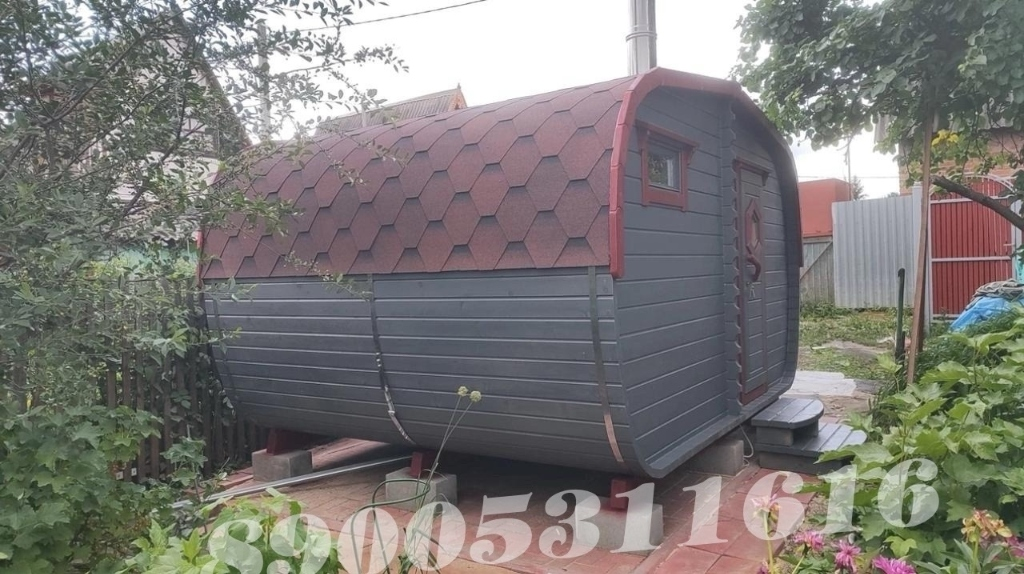
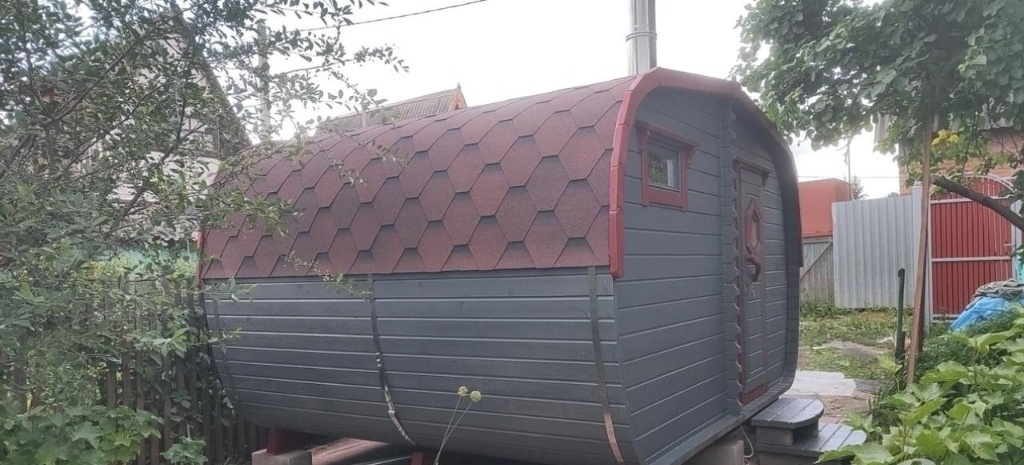
Update CTA buttons to direct VK messages, remove phone watermarks from photos, update banya bochka price to 239000, and bump cache busters to v3.4

diff --git a/index.html b/index.html
@@ -19,7 +19,7 @@
   <link href="https://fonts.googleapis.com/css2?family=Inter:wght@300;400;500;600;700;800&family=Outfit:wght@500;600;700;800&display=swap" rel="stylesheet">
 
   <!-- Stylesheet & Favicon -->
-  <link rel="stylesheet" href="css/style.css?v=3.3">
+  <link rel="stylesheet" href="css/style.css?v=3.4">
   <link rel="icon" type="image/png" href="img/logo.png">
 </head>
 <body>
@@ -84,7 +84,7 @@
           </svg>
         </a>
 
-        <a href="https://vk.ru/zabor_okno" target="_blank" rel="noopener noreferrer" class="btn btn--primary btn--sm open-lead-modal">Вызвать замерщика</a>
+        <a href="https://vk.me/zabor_okno" target="_blank" rel="noopener noreferrer" class="btn btn--primary btn--sm open-lead-modal">Вызвать замерщика</a>
         <button class="burger" id="burgerBtn" aria-label="Открыть меню">
           <span></span><span></span><span></span>
         </button>
@@ -115,7 +115,7 @@
 
       <!-- Quick Action / Call to Measurement -->
       <div class="mobile-drawer__cta">
-        <a href="https://vk.ru/zabor_okno" target="_blank" rel="noopener noreferrer" class="btn btn--primary btn--block open-lead-modal" data-service="Бесплатный выезд замерщика">
+        <a href="https://vk.me/zabor_okno" target="_blank" rel="noopener noreferrer" class="btn btn--primary btn--block open-lead-modal" data-service="Бесплатный выезд замерщика">
           <svg viewBox="0 0 24 24" width="18" height="18" fill="none" stroke="currentColor" stroke-width="2">
             <path d="M21 16V8a2 2 0 0 0-1-1.73l-7-4a2 2 0 0 0-2 0l-7 4A2 2 0 0 0 3 8v8a2 2 0 0 0 1 1.73l7 4a2 2 0 0 0 2 0l7-4A2 2 0 0 0 21 16z"></path>
           </svg>
@@ -261,7 +261,7 @@
             </p>
 
             <div class="hero-banner-full__actions">
-              <a href="https://vk.ru/zabor_okno" target="_blank" rel="noopener noreferrer" class="btn btn--primary btn--pill open-lead-modal">
+              <a href="https://vk.me/zabor_okno" target="_blank" rel="noopener noreferrer" class="btn btn--primary btn--pill open-lead-modal">
                 <span>Вызвать замерщика</span>
                 <svg viewBox="0 0 24 24" width="18" height="18" fill="none" stroke="currentColor" stroke-width="2">
                   <line x1="5" y1="12" x2="19" y2="12"></line>
@@ -284,7 +284,7 @@
           <div class="hero-dock-bar">
             
             <a href="#services" class="hero-dock-item">
-              <img src="img/roof_product_2.jpg" alt="Установка Крыш" class="hero-dock-item__avatar">
+              <img src="img/roof_product_2.jpg?v=3.4" alt="Установка Крыш" class="hero-dock-item__avatar">
               <div class="hero-dock-item__text">
                 <span class="hero-dock-item__title">Установка Крыш</span>
                 <span class="hero-dock-item__desc">Любой материал в наличии</span>
@@ -300,7 +300,7 @@
             </a>
 
             <a href="#services" class="hero-dock-item">
-              <img src="img/siding_product_1.jpg" alt="Сайдинг и фасады" class="hero-dock-item__avatar">
+              <img src="img/siding_product_1.jpg?v=3.4" alt="Сайдинг и фасады" class="hero-dock-item__avatar">
               <div class="hero-dock-item__text">
                 <span class="hero-dock-item__title">Устанавливаем сайдинг</span>
                 <span class="hero-dock-item__desc">Любой сложности с завода</span>
@@ -308,7 +308,7 @@
             </a>
 
             <a href="#services" class="hero-dock-item">
-              <img src="img/window_product_real.jpg" alt="Окна ПВХ и доставка" class="hero-dock-item__avatar">
+              <img src="img/window_product_real.jpg?v=3.4" alt="Окна ПВХ и доставка" class="hero-dock-item__avatar">
               <div class="hero-dock-item__text">
                 <span class="hero-dock-item__title">Окна ПВХ и доставка</span>
                 <span class="hero-dock-item__desc">Доставка материала • Рассрочка 0%</span>
@@ -550,7 +550,7 @@
           <!-- Service 1: Крыши / Кровля (Главный товар/услуга) -->
           <div class="service-card service-card--featured open-service-detail" data-service-id="roof" data-animate="fade-up">
             <div class="service-card__image-box">
-              <img src="img/roof_product_2.jpg" alt="Установка Крыш под ключ — vk.ru/zabor_okno" class="service-card__img">
+              <img src="img/roof_product_2.jpg?v=3.4" alt="Установка Крыш под ключ — vk.ru/zabor_okno" class="service-card__img">
               <span class="service-card__tag">Хит сезона</span>
               <span class="service-card__badge-click">
                 <svg viewBox="0 0 24 24" width="14" height="14" fill="none" stroke="currentColor" stroke-width="2"><circle cx="11" cy="11" r="8"></circle><line x1="21" y1="21" x2="16.65" y2="16.65"></line><line x1="11" y1="8" x2="11" y2="14"></line><line x1="8" y1="11" x2="14" y2="11"></line></svg>
@@ -572,7 +572,7 @@
                 </div>
                 <div class="service-card__actions">
                   <button type="button" class="btn btn--sm btn-open-detail" data-service-id="roof">Подробнее</button>
-                  <a href="https://vk.ru/zabor_okno" target="_blank" rel="noopener noreferrer" class="btn btn--sm btn--vk-icon" title="Спросить в VK" onclick="event.stopPropagation();">
+                  <a href="https://vk.me/zabor_okno" target="_blank" rel="noopener noreferrer" class="btn btn--sm btn--vk-icon" title="Спросить в VK" onclick="event.stopPropagation();">
                     <svg viewBox="0 0 24 24" width="16" height="16" fill="currentColor"><path d="M15.684 0H8.316C2.992 0 0 2.992 0 8.316v7.368C0 21.008 2.992 24 8.316 24h7.368C21.008 24 24 21.008 24 15.684V8.316C24 2.992 21.008 0 15.684 0zm3.692 17.124h-1.744c-.66 0-.864-.525-2.053-1.716-1.037-1.008-1.497-1.139-1.751-1.139-.356 0-.458.102-.458.593v1.652c0 .424-.136.686-1.254.686-1.847 0-3.898-1.118-5.34-3.2-2.17-3.085-2.763-5.407-2.763-5.882 0-.254.102-.491.593-.491h1.746c.441 0 .61.203.78.678.847 2.475 2.271 4.644 2.864 4.644.22 0 .322-.102.322-.661V10.8c-.068-1.203-.712-1.305-.712-1.729 0-.203.17-.407.441-.407h2.746c.373 0 .508.203.508.644v3.475c0 .373.17.508.271.508.22 0 .407-.136.814-.542 1.271-1.424 2.186-3.627 2.186-3.627.119-.254.339-.458.78-.458h1.746c.525 0 .644.271.525.644-.22.983-2.271 3.898-2.373 4.051-.203.322-.288.475 0 .864.203.288.881.864 1.339 1.39 1.051 1.153 1.864 2.119 2.085 2.78.22.644-.119.983-.712.983z"/></svg>
                   </a>
                 </div>
@@ -606,7 +606,7 @@
                 </div>
                 <div class="service-card__actions">
                   <button type="button" class="btn btn--sm btn-open-detail" data-service-id="complex">Подробнее</button>
-                  <a href="https://vk.ru/zabor_okno" target="_blank" rel="noopener noreferrer" class="btn btn--sm btn--vk-icon" title="Спросить в VK" onclick="event.stopPropagation();">
+                  <a href="https://vk.me/zabor_okno" target="_blank" rel="noopener noreferrer" class="btn btn--sm btn--vk-icon" title="Спросить в VK" onclick="event.stopPropagation();">
                     <svg viewBox="0 0 24 24" width="16" height="16" fill="currentColor"><path d="M15.684 0H8.316C2.992 0 0 2.992 0 8.316v7.368C0 21.008 2.992 24 8.316 24h7.368C21.008 24 24 21.008 24 15.684V8.316C24 2.992 21.008 0 15.684 0zm3.692 17.124h-1.744c-.66 0-.864-.525-2.053-1.716-1.037-1.008-1.497-1.139-1.751-1.139-.356 0-.458.102-.458.593v1.652c0 .424-.136.686-1.254.686-1.847 0-3.898-1.118-5.34-3.2-2.17-3.085-2.763-5.407-2.763-5.882 0-.254.102-.491.593-.491h1.746c.441 0 .61.203.78.678.847 2.475 2.271 4.644 2.864 4.644.22 0 .322-.102.322-.661V10.8c-.068-1.203-.712-1.305-.712-1.729 0-.203.17-.407.441-.407h2.746c.373 0 .508.203.508.644v3.475c0 .373.17.508.271.508.22 0 .407-.136.814-.542 1.271-1.424 2.186-3.627 2.186-3.627.119-.254.339-.458.78-.458h1.746c.525 0 .644.271.525.644-.22.983-2.271 3.898-2.373 4.051-.203.322-.288.475 0 .864.203.288.881.864 1.339 1.39 1.051 1.153 1.864 2.119 2.085 2.78.22.644-.119.983-.712.983z"/></svg>
                   </a>
                 </div>
@@ -639,7 +639,7 @@
                 </div>
                 <div class="service-card__actions">
                   <button type="button" class="btn btn--sm btn-open-detail" data-service-id="fence">Подробнее</button>
-                  <a href="https://vk.ru/zabor_okno" target="_blank" rel="noopener noreferrer" class="btn btn--sm btn--vk-icon" title="Спросить в VK" onclick="event.stopPropagation();">
+                  <a href="https://vk.me/zabor_okno" target="_blank" rel="noopener noreferrer" class="btn btn--sm btn--vk-icon" title="Спросить в VK" onclick="event.stopPropagation();">
                     <svg viewBox="0 0 24 24" width="16" height="16" fill="currentColor"><path d="M15.684 0H8.316C2.992 0 0 2.992 0 8.316v7.368C0 21.008 2.992 24 8.316 24h7.368C21.008 24 24 21.008 24 15.684V8.316C24 2.992 21.008 0 15.684 0zm3.692 17.124h-1.744c-.66 0-.864-.525-2.053-1.716-1.037-1.008-1.497-1.139-1.751-1.139-.356 0-.458.102-.458.593v1.652c0 .424-.136.686-1.254.686-1.847 0-3.898-1.118-5.34-3.2-2.17-3.085-2.763-5.407-2.763-5.882 0-.254.102-.491.593-.491h1.746c.441 0 .61.203.78.678.847 2.475 2.271 4.644 2.864 4.644.22 0 .322-.102.322-.661V10.8c-.068-1.203-.712-1.305-.712-1.729 0-.203.17-.407.441-.407h2.746c.373 0 .508.203.508.644v3.475c0 .373.17.508.271.508.22 0 .407-.136.814-.542 1.271-1.424 2.186-3.627 2.186-3.627.119-.254.339-.458.78-.458h1.746c.525 0 .644.271.525.644-.22.983-2.271 3.898-2.373 4.051-.203.322-.288.475 0 .864.203.288.881.864 1.339 1.39 1.051 1.153 1.864 2.119 2.085 2.78.22.644-.119.983-.712.983z"/></svg>
                   </a>
                 </div>
@@ -650,7 +650,7 @@
           <!-- Service 4: Сайдинги -->
           <div class="service-card open-service-detail" data-service-id="siding" data-animate="fade-up" data-delay="200">
             <div class="service-card__image-box">
-              <img src="img/siding_product_1.jpg" alt="Установка сайдинга любой сложности — vk.ru/zabor_okno" class="service-card__img">
+              <img src="img/siding_product_1.jpg?v=3.4" alt="Установка сайдинга любой сложности — vk.ru/zabor_okno" class="service-card__img">
               <span class="service-card__tag">Любая сложность</span>
               <span class="service-card__badge-click">
                 <svg viewBox="0 0 24 24" width="14" height="14" fill="none" stroke="currentColor" stroke-width="2"><circle cx="11" cy="11" r="8"></circle><line x1="21" y1="21" x2="16.65" y2="16.65"></line><line x1="11" y1="8" x2="11" y2="14"></line><line x1="8" y1="11" x2="14" y2="11"></line></svg>
@@ -672,7 +672,7 @@
                 </div>
                 <div class="service-card__actions">
                   <button type="button" class="btn btn--sm btn-open-detail" data-service-id="siding">Подробнее</button>
-                  <a href="https://vk.ru/zabor_okno" target="_blank" rel="noopener noreferrer" class="btn btn--sm btn--vk-icon" title="Спросить в VK" onclick="event.stopPropagation();">
+                  <a href="https://vk.me/zabor_okno" target="_blank" rel="noopener noreferrer" class="btn btn--sm btn--vk-icon" title="Спросить в VK" onclick="event.stopPropagation();">
                     <svg viewBox="0 0 24 24" width="16" height="16" fill="currentColor"><path d="M15.684 0H8.316C2.992 0 0 2.992 0 8.316v7.368C0 21.008 2.992 24 8.316 24h7.368C21.008 24 24 21.008 24 15.684V8.316C24 2.992 21.008 0 15.684 0zm3.692 17.124h-1.744c-.66 0-.864-.525-2.053-1.716-1.037-1.008-1.497-1.139-1.751-1.139-.356 0-.458.102-.458.593v1.652c0 .424-.136.686-1.254.686-1.847 0-3.898-1.118-5.34-3.2-2.17-3.085-2.763-5.407-2.763-5.882 0-.254.102-.491.593-.491h1.746c.441 0 .61.203.78.678.847 2.475 2.271 4.644 2.864 4.644.22 0 .322-.102.322-.661V10.8c-.068-1.203-.712-1.305-.712-1.729 0-.203.17-.407.441-.407h2.746c.373 0 .508.203.508.644v3.475c0 .373.17.508.271.508.22 0 .407-.136.814-.542 1.271-1.424 2.186-3.627 2.186-3.627.119-.254.339-.458.78-.458h1.746c.525 0 .644.271.525.644-.22.983-2.271 3.898-2.373 4.051-.203.322-.288.475 0 .864.203.288.881.864 1.339 1.39 1.051 1.153 1.864 2.119 2.085 2.78.22.644-.119.983-.712.983z"/></svg>
                   </a>
                 </div>
@@ -683,7 +683,7 @@
           <!-- Service 5: Окна ПВХ и Остекление -->
           <div class="service-card open-service-detail" data-service-id="window" data-animate="fade-up" data-delay="250">
             <div class="service-card__image-box">
-              <img src="img/window_product_real.jpg" alt="Пластиковые окна и остекление под ключ — vk.ru/zabor_okno" class="service-card__img">
+              <img src="img/window_product_real.jpg?v=3.4" alt="Пластиковые окна и остекление под ключ — vk.ru/zabor_okno" class="service-card__img">
               <span class="service-card__tag">Тепло и тишина</span>
               <span class="service-card__badge-click">
                 <svg viewBox="0 0 24 24" width="14" height="14" fill="none" stroke="currentColor" stroke-width="2"><circle cx="11" cy="11" r="8"></circle><line x1="21" y1="21" x2="16.65" y2="16.65"></line><line x1="11" y1="8" x2="11" y2="14"></line><line x1="8" y1="11" x2="14" y2="11"></line></svg>
@@ -705,7 +705,7 @@
                 </div>
                 <div class="service-card__actions">
                   <button type="button" class="btn btn--sm btn-open-detail" data-service-id="window">Подробнее</button>
-                  <a href="https://vk.ru/zabor_okno" target="_blank" rel="noopener noreferrer" class="btn btn--sm btn--vk-icon" title="Спросить в VK" onclick="event.stopPropagation();">
+                  <a href="https://vk.me/zabor_okno" target="_blank" rel="noopener noreferrer" class="btn btn--sm btn--vk-icon" title="Спросить в VK" onclick="event.stopPropagation();">
                     <svg viewBox="0 0 24 24" width="16" height="16" fill="currentColor"><path d="M15.684 0H8.316C2.992 0 0 2.992 0 8.316v7.368C0 21.008 2.992 24 8.316 24h7.368C21.008 24 24 21.008 24 15.684V8.316C24 2.992 21.008 0 15.684 0zm3.692 17.124h-1.744c-.66 0-.864-.525-2.053-1.716-1.037-1.008-1.497-1.139-1.751-1.139-.356 0-.458.102-.458.593v1.652c0 .424-.136.686-1.254.686-1.847 0-3.898-1.118-5.34-3.2-2.17-3.085-2.763-5.407-2.763-5.882 0-.254.102-.491.593-.491h1.746c.441 0 .61.203.78.678.847 2.475 2.271 4.644 2.864 4.644.22 0 .322-.102.322-.661V10.8c-.068-1.203-.712-1.305-.712-1.729 0-.203.17-.407.441-.407h2.746c.373 0 .508.203.508.644v3.475c0 .373.17.508.271.508.22 0 .407-.136.814-.542 1.271-1.424 2.186-3.627 2.186-3.627.119-.254.339-.458.78-.458h1.746c.525 0 .644.271.525.644-.22.983-2.271 3.898-2.373 4.051-.203.322-.288.475 0 .864.203.288.881.864 1.339 1.39 1.051 1.153 1.864 2.119 2.085 2.78.22.644-.119.983-.712.983z"/></svg>
                   </a>
                 </div>
@@ -716,7 +716,7 @@
           <!-- Service 6: Баня БОЧКА (Изготовим Баньку по вашим размерам) -->
           <div class="service-card open-service-detail" data-service-id="banya" data-animate="fade-up" data-delay="100">
             <div class="service-card__image-box">
-              <img src="img/banya_bochka_1.jpg" alt="Баня БОЧКА под ключ с доставкой — vk.ru/zabor_okno" class="service-card__img">
+              <img src="img/banya_bochka_1.jpg?v=3.4" alt="Баня БОЧКА под ключ с доставкой — vk.ru/zabor_okno" class="service-card__img">
               <span class="service-card__tag">В наличии и на заказ</span>
               <span class="service-card__badge-click">
                 <svg viewBox="0 0 24 24" width="14" height="14" fill="none" stroke="currentColor" stroke-width="2"><circle cx="11" cy="11" r="8"></circle><line x1="21" y1="21" x2="16.65" y2="16.65"></line><line x1="11" y1="8" x2="11" y2="14"></line><line x1="8" y1="11" x2="14" y2="11"></line></svg>
@@ -734,11 +734,11 @@
               </div>
               <div class="service-card__footer">
                 <div class="service-card__price">
-                  <span class="price-from">от</span> <strong>120 000 ₽</strong> <span class="price-unit">/ компл.</span>
+                  <span class="price-from">от</span> <strong>239 000 ₽</strong> <span class="price-unit">/ компл.</span>
                 </div>
                 <div class="service-card__actions">
                   <button type="button" class="btn btn--sm btn-open-detail" data-service-id="banya">Подробнее</button>
-                  <a href="https://vk.ru/zabor_okno" target="_blank" rel="noopener noreferrer" class="btn btn--sm btn--vk-icon" title="Спросить в VK" onclick="event.stopPropagation();">
+                  <a href="https://vk.me/zabor_okno" target="_blank" rel="noopener noreferrer" class="btn btn--sm btn--vk-icon" title="Спросить в VK" onclick="event.stopPropagation();">
                     <svg viewBox="0 0 24 24" width="16" height="16" fill="currentColor"><path d="M15.684 0H8.316C2.992 0 0 2.992 0 8.316v7.368C0 21.008 2.992 24 8.316 24h7.368C21.008 24 24 21.008 24 15.684V8.316C24 2.992 21.008 0 15.684 0zm3.692 17.124h-1.744c-.66 0-.864-.525-2.053-1.716-1.037-1.008-1.497-1.139-1.751-1.139-.356 0-.458.102-.458.593v1.652c0 .424-.136.686-1.254.686-1.847 0-3.898-1.118-5.34-3.2-2.17-3.085-2.763-5.407-2.763-5.882 0-.254.102-.491.593-.491h1.746c.441 0 .61.203.78.678.847 2.475 2.271 4.644 2.864 4.644.22 0 .322-.102.322-.661V10.8c-.068-1.203-.712-1.305-.712-1.729 0-.203.17-.407.441-.407h2.746c.373 0 .508.203.508.644v3.475c0 .373.17.508.271.508.22 0 .407-.136.814-.542 1.271-1.424 2.186-3.627 2.186-3.627.119-.254.339-.458.78-.458h1.746c.525 0 .644.271.525.644-.22.983-2.271 3.898-2.373 4.051-.203.322-.288.475 0 .864.203.288.881.864 1.339 1.39 1.051 1.153 1.864 2.119 2.085 2.78.22.644-.119.983-.712.983z"/></svg>
                   </a>
                 </div>
@@ -781,7 +781,7 @@
               <li><svg viewBox="0 0 24 24" width="14" height="14" fill="none" stroke="currentColor" stroke-width="2.5"><polyline points="20 6 9 17 4 12"></polyline></svg> Оформление при подписании договора</li>
               <li><svg viewBox="0 0 24 24" width="14" height="14" fill="none" stroke="currentColor" stroke-width="2.5"><polyline points="20 6 9 17 4 12"></polyline></svg> Нужен только паспорт</li>
             </ul>
-            <a href="https://vk.ru/zabor_okno" target="_blank" rel="noopener noreferrer" class="btn btn--primary btn--block open-lead-modal" data-service="Рассрочка 0%">Оформить рассрочку 0%</a>
+            <a href="https://vk.me/zabor_okno" target="_blank" rel="noopener noreferrer" class="btn btn--primary btn--block open-lead-modal" data-service="Рассрочка 0%">Оформить рассрочку 0%</a>
           </div>
 
           <!-- Card 2: Кредит -->
@@ -803,7 +803,7 @@
               <li><svg viewBox="0 0 24 24" width="14" height="14" fill="none" stroke="currentColor" stroke-width="2.5"><polyline points="20 6 9 17 4 12"></polyline></svg> Быстрое одобрение за 15 минут</li>
               <li><svg viewBox="0 0 24 24" width="14" height="14" fill="none" stroke="currentColor" stroke-width="2.5"><polyline points="20 6 9 17 4 12"></polyline></svg> Досрочное погашение без штрафов</li>
             </ul>
-            <a href="https://vk.ru/zabor_okno" target="_blank" rel="noopener noreferrer" class="btn btn--outline btn--block open-lead-modal" data-service="Кредитование">Рассчитать кредит</a>
+            <a href="https://vk.me/zabor_okno" target="_blank" rel="noopener noreferrer" class="btn btn--outline btn--block open-lead-modal" data-service="Кредитование">Рассчитать кредит</a>
           </div>
 
           <!-- Card 3: Скидки и Бонусы -->
@@ -855,7 +855,7 @@
           <!-- Item 1: Roof -->
           <div class="gallery-item" data-category="roof" data-animate="fade-up">
             <div class="gallery-item__img-wrap">
-              <img src="img/roof_product_2.jpg" alt="Установка крыши и забора под ключ — объект vk.ru/zabor_okno" class="gallery-item__img">
+              <img src="img/roof_product_2.jpg?v=3.4" alt="Установка крыши и забора под ключ — объект vk.ru/zabor_okno" class="gallery-item__img">
               <span class="gallery-item__zoom-badge" title="Нажмите, чтобы увеличить фото">
                 <svg viewBox="0 0 24 24" width="18" height="18" fill="none" stroke="currentColor" stroke-width="2.2"><circle cx="11" cy="11" r="8"></circle><line x1="21" y1="21" x2="16.65" y2="16.65"></line><line x1="11" y1="8" x2="11" y2="14"></line><line x1="8" y1="11" x2="14" y2="11"></line></svg>
               </span>
@@ -900,7 +900,7 @@
           <!-- Item 4: Siding -->
           <div class="gallery-item" data-category="siding" data-animate="fade-up" data-delay="200">
             <div class="gallery-item__img-wrap">
-              <img src="img/siding_product_1.jpg" alt="Установка сайдинга любой сложности — vk.ru/zabor_okno" class="gallery-item__img">
+              <img src="img/siding_product_1.jpg?v=3.4" alt="Установка сайдинга любой сложности — vk.ru/zabor_okno" class="gallery-item__img">
               <span class="gallery-item__zoom-badge" title="Нажмите, чтобы увеличить фото">
                 <svg viewBox="0 0 24 24" width="18" height="18" fill="none" stroke="currentColor" stroke-width="2.2"><circle cx="11" cy="11" r="8"></circle><line x1="21" y1="21" x2="16.65" y2="16.65"></line><line x1="11" y1="8" x2="11" y2="14"></line><line x1="8" y1="11" x2="14" y2="11"></line></svg>
               </span>
@@ -915,7 +915,7 @@
           <!-- Item 5: Window -->
           <div class="gallery-item" data-category="window" data-animate="fade-up">
             <div class="gallery-item__img-wrap">
-              <img src="img/window_product_real.jpg" alt="Окна ПВХ и теплое остекление — vk.ru/zabor_okno" class="gallery-item__img">
+              <img src="img/window_product_real.jpg?v=3.4" alt="Окна ПВХ и теплое остекление — vk.ru/zabor_okno" class="gallery-item__img">
               <span class="gallery-item__zoom-badge" title="Нажмите, чтобы увеличить фото">
                 <svg viewBox="0 0 24 24" width="18" height="18" fill="none" stroke="currentColor" stroke-width="2.2"><circle cx="11" cy="11" r="8"></circle><line x1="21" y1="21" x2="16.65" y2="16.65"></line><line x1="11" y1="8" x2="11" y2="14"></line><line x1="8" y1="11" x2="14" y2="11"></line></svg>
               </span>
@@ -930,7 +930,7 @@
           <!-- Item 6: Roof 2 -->
           <div class="gallery-item" data-category="roof" data-animate="fade-up" data-delay="100">
             <div class="gallery-item__img-wrap">
-              <img src="img/roof_product_1.png" alt="Кровля из металлочерепицы с обходом дымохода — vk.ru/zabor_okno" class="gallery-item__img">
+              <img src="img/roof_product_1.png?v=3.4" alt="Кровля из металлочерепицы с обходом дымохода — vk.ru/zabor_okno" class="gallery-item__img">
               <span class="gallery-item__zoom-badge" title="Нажмите, чтобы увеличить фото">
                 <svg viewBox="0 0 24 24" width="18" height="18" fill="none" stroke="currentColor" stroke-width="2.2"><circle cx="11" cy="11" r="8"></circle><line x1="21" y1="21" x2="16.65" y2="16.65"></line><line x1="11" y1="8" x2="11" y2="14"></line><line x1="8" y1="11" x2="14" y2="11"></line></svg>
               </span>
@@ -960,7 +960,7 @@
           <!-- Item 8: Banya 1 -->
           <div class="gallery-item" data-category="banya" data-animate="fade-up">
             <div class="gallery-item__img-wrap">
-              <img src="img/banya_bochka_1.jpg" alt="Баня БОЧКА под ключ с доставкой — vk.ru/zabor_okno" class="gallery-item__img">
+              <img src="img/banya_bochka_1.jpg?v=3.4" alt="Баня БОЧКА под ключ с доставкой — vk.ru/zabor_okno" class="gallery-item__img">
               <span class="gallery-item__zoom-badge" title="Нажмите, чтобы увеличить фото">
                 <svg viewBox="0 0 24 24" width="18" height="18" fill="none" stroke="currentColor" stroke-width="2.2"><circle cx="11" cy="11" r="8"></circle><line x1="21" y1="21" x2="16.65" y2="16.65"></line><line x1="11" y1="8" x2="11" y2="14"></line><line x1="8" y1="11" x2="14" y2="11"></line></svg>
               </span>
@@ -975,7 +975,7 @@
           <!-- Item 9: Banya Parilka -->
           <div class="gallery-item" data-category="banya" data-animate="fade-up" data-delay="100">
             <div class="gallery-item__img-wrap">
-              <img src="img/banya_bochka_parilka.png" alt="Парная в бане-бочке — vk.ru/zabor_okno" class="gallery-item__img">
+              <img src="img/banya_bochka_parilka.png?v=3.4" alt="Парная в бане-бочке — vk.ru/zabor_okno" class="gallery-item__img">
               <span class="gallery-item__zoom-badge" title="Нажмите, чтобы увеличить фото">
                 <svg viewBox="0 0 24 24" width="18" height="18" fill="none" stroke="currentColor" stroke-width="2.2"><circle cx="11" cy="11" r="8"></circle><line x1="21" y1="21" x2="16.65" y2="16.65"></line><line x1="11" y1="8" x2="11" y2="14"></line><line x1="8" y1="11" x2="14" y2="11"></line></svg>
               </span>
@@ -990,7 +990,7 @@
           <!-- Item 10: Banya Rest -->
           <div class="gallery-item" data-category="banya" data-animate="fade-up" data-delay="200">
             <div class="gallery-item__img-wrap">
-              <img src="img/banya_bochka_rest.png" alt="Комната отдыха в бане-бочке — vk.ru/zabor_okno" class="gallery-item__img">
+              <img src="img/banya_bochka_rest.png?v=3.4" alt="Комната отдыха в бане-бочке — vk.ru/zabor_okno" class="gallery-item__img">
               <span class="gallery-item__zoom-badge" title="Нажмите, чтобы увеличить фото">
                 <svg viewBox="0 0 24 24" width="18" height="18" fill="none" stroke="currentColor" stroke-width="2.2"><circle cx="11" cy="11" r="8"></circle><line x1="21" y1="21" x2="16.65" y2="16.65"></line><line x1="11" y1="8" x2="11" y2="14"></line><line x1="8" y1="11" x2="14" y2="11"></line></svg>
               </span>
@@ -1409,7 +1409,7 @@
   <!-- FLOATING ACTION WIDGETS -->
   <div class="floating-widgets">
     <!-- Floating VK Button with Pulse -->
-    <a href="https://vk.ru/zabor_okno" target="_blank" rel="noopener noreferrer" class="floating-vk-btn" title="Написать нам ВКонтакте">
+    <a href="https://vk.me/zabor_okno" target="_blank" rel="noopener noreferrer" class="floating-vk-btn" title="Написать нам ВКонтакте">
       <span class="floating-vk-pulse"></span>
       <svg viewBox="0 0 24 24" width="24" height="24" fill="currentColor">
         <path d="M15.684 0H8.316C2.992 0 0 2.992 0 8.316v7.368C0 21.008 2.992 24 8.316 24h7.368C21.008 24 24 21.008 24 15.684V8.316C24 2.992 21.008 0 15.684 0zm3.692 17.124h-1.744c-.66 0-.864-.525-2.053-1.716-1.037-1.008-1.497-1.139-1.751-1.139-.356 0-.458.102-.458.593v1.652c0 .424-.136.686-1.254.686-1.847 0-3.898-1.118-5.34-3.2-2.17-3.085-2.763-5.407-2.763-5.882 0-.254.102-.491.593-.491h1.746c.441 0 .61.203.78.678.847 2.475 2.271 4.644 2.864 4.644.22 0 .322-.102.322-.661V10.8c-.068-1.203-.712-1.305-.712-1.729 0-.203.17-.407.441-.407h2.746c.373 0 .508.203.508.644v3.475c0 .373.17.508.271.508.22 0 .407-.136.814-.542 1.271-1.424 2.186-3.627 2.186-3.627.119-.254.339-.458.78-.458h1.746c.525 0 .644.271.525.644-.22.983-2.271 3.898-2.373 4.051-.203.322-.288.475 0 .864.203.288.881.864 1.339 1.39 1.051 1.153 1.864 2.119 2.085 2.78.22.644-.119.983-.712.983z"/>
@@ -1466,14 +1466,14 @@
             </div>
 
             <div class="service-detail-modal__actions">
-              <a href="https://vk.ru/zabor_okno" target="_blank" rel="noopener noreferrer" class="btn btn--primary btn--lg" id="sdmOrderBtn">
+              <a href="https://vk.me/zabor_okno" target="_blank" rel="noopener noreferrer" class="btn btn--primary btn--lg" id="sdmOrderBtn">
                 <span>Вызвать замерщика</span>
                 <svg viewBox="0 0 24 24" width="18" height="18" fill="none" stroke="currentColor" stroke-width="2">
                   <line x1="5" y1="12" x2="19" y2="12"></line>
                   <polyline points="12 5 19 12 12 19"></polyline>
                 </svg>
               </a>
-              <a href="https://vk.ru/zabor_okno" target="_blank" rel="noopener noreferrer" class="btn btn--vk btn--lg" id="sdmVkBtn">
+              <a href="https://vk.me/zabor_okno" target="_blank" rel="noopener noreferrer" class="btn btn--vk btn--lg" id="sdmVkBtn">
                 <svg viewBox="0 0 24 24" width="18" height="18" fill="currentColor">
                   <path d="M15.684 0H8.316C2.992 0 0 2.992 0 8.316v7.368C0 21.008 2.992 24 8.316 24h7.368C21.008 24 24 21.008 24 15.684V8.316C24 2.992 21.008 0 15.684 0zm3.692 17.124h-1.744c-.66 0-.864-.525-2.053-1.716-1.037-1.008-1.497-1.139-1.751-1.139-.356 0-.458.102-.458.593v1.652c0 .424-.136.686-1.254.686-1.847 0-3.898-1.118-5.34-3.2-2.17-3.085-2.763-5.407-2.763-5.882 0-.254.102-.491.593-.491h1.746c.441 0 .61.203.78.678.847 2.475 2.271 4.644 2.864 4.644.22 0 .322-.102.322-.661V10.8c-.068-1.203-.712-1.305-.712-1.729 0-.203.17-.407.441-.407h2.746c.373 0 .508.203.508.644v3.475c0 .373.17.508.271.508.22 0 .407-.136.814-.542 1.271-1.424 2.186-3.627 2.186-3.627.119-.254.339-.458.78-.458h1.746c.525 0 .644.271.525.644-.22.983-2.271 3.898-2.373 4.051-.203.322-.288.475 0 .864.203.288.881.864 1.339 1.39 1.051 1.153 1.864 2.119 2.085 2.78.22.644-.119.983-.712.983z"/>
                 </svg>
@@ -1568,11 +1568,11 @@
         <p style="color: #64748b; font-size: 0.925rem; line-height: 1.5; margin-bottom: 24px;">
           Заявки и консультации принимаем напрямую ВКонтакте без заполнения форм. Напишите нам — рассчитаем смету и согласуем выезд инженера!
         </p>
-        <a href="https://vk.ru/zabor_okno" target="_blank" rel="noopener noreferrer" class="btn btn--vk btn--block btn--lg" style="font-weight: 700; font-size: 1.05rem; padding: 14px 20px; box-shadow: 0 4px 14px rgba(0, 119, 255, 0.35);">
+        <a href="https://vk.me/zabor_okno" target="_blank" rel="noopener noreferrer" class="btn btn--vk btn--block btn--lg" style="font-weight: 700; font-size: 1.05rem; padding: 14px 20px; box-shadow: 0 4px 14px rgba(0, 119, 255, 0.35);">
           <svg viewBox="0 0 24 24" width="22" height="22" fill="currentColor">
             <path d="M15.684 0H8.316C2.992 0 0 2.992 0 8.316v7.368C0 21.008 2.992 24 8.316 24h7.368C21.008 24 24 21.008 24 15.684V8.316C24 2.992 21.008 0 15.684 0zm3.692 17.124h-1.744c-.66 0-.864-.525-2.053-1.716-1.037-1.008-1.497-1.139-1.751-1.139-.356 0-.458.102-.458.593v1.652c0 .424-.136.686-1.254.686-1.847 0-3.898-1.118-5.34-3.2-2.17-3.085-2.763-5.407-2.763-5.882 0-.254.102-.491.593-.491h1.746c.441 0 .61.203.78.678.847 2.475 2.271 4.644 2.864 4.644.22 0 .322-.102.322-.661V10.8c-.068-1.203-.712-1.305-.712-1.729 0-.203.17-.407.441-.407h2.746c.373 0 .508.203.508.644v3.475c0 .373.17.508.271.508.22 0 .407-.136.814-.542 1.271-1.424 2.186-3.627 2.186-3.627.119-.254.339-.458.78-.458h1.746c.525 0 .644.271.525.644-.22.983-2.271 3.898-2.373 4.051-.203.322-.288.475 0 .864.203.288.881.864 1.339 1.39 1.051 1.153 1.864 2.119 2.085 2.78.22.644-.119.983-.712.983z"/>
           </svg>
-          <span>Перейти в группу vk.ru/zabor_okno</span>
+          <span>Написать в сообщения сообщества</span>
         </a>
       </div>
     </div>
@@ -1716,6 +1716,6 @@
   </div>
 
   <!-- Main JavaScript File -->
-  <script src="js/main.js?v=3.3"></script>
+  <script src="js/main.js?v=3.4"></script>
 </body>
 </html>

diff --git a/js/main.js b/js/main.js
@@ -245,7 +245,7 @@ document.addEventListener('DOMContentLoaded', () => {
     btn.addEventListener('click', (e) => {
       closeMobileDrawer();
       if (btn.tagName.toLowerCase() !== 'a') {
-        window.open('https://vk.ru/zabor_okno', '_blank', 'noopener,noreferrer');
+        window.open('https://vk.me/zabor_okno', '_blank', 'noopener,noreferrer');
       }
     });
   });
@@ -378,7 +378,7 @@ document.addEventListener('DOMContentLoaded', () => {
         { bold: 'Готова к парению в день установки:', text: 'растопите печь и наслаждайтесь горячим паром в тот же вечер.' }
       ],
       features: ['Есть готовые', 'По вашим размерам', 'Печь в комплекте', 'Монтаж за 1 день'],
-      price: 'от 120 000 ₽ / комплект',
+      price: 'от 239 000 ₽ / комплект',
       leadService: 'Баня БОЧКА под ключ'
     }
   };
@@ -517,7 +517,7 @@ document.addEventListener('DOMContentLoaded', () => {
     if (lightboxOrderBtn) {
       lightboxOrderBtn.onclick = () => {
         closeModal(imageLightboxModal);
-        window.open('https://vk.ru/zabor_okno', '_blank', 'noopener,noreferrer');
+        window.open('https://vk.me/zabor_okno', '_blank', 'noopener,noreferrer');
       };
     }
   }
